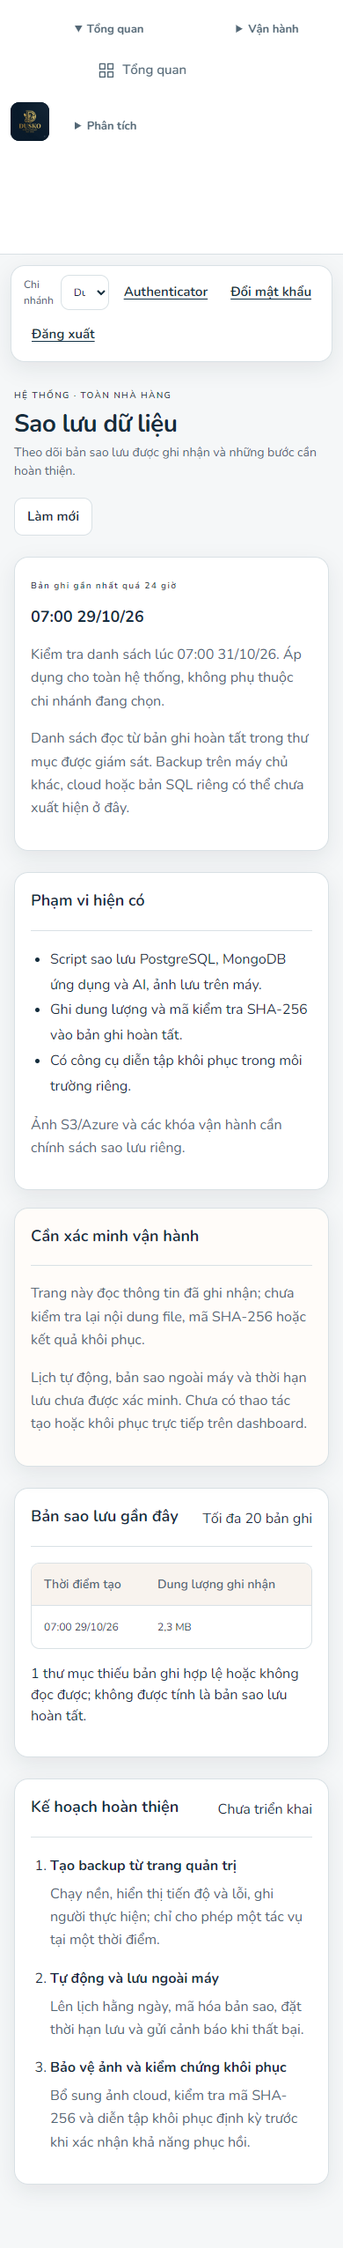
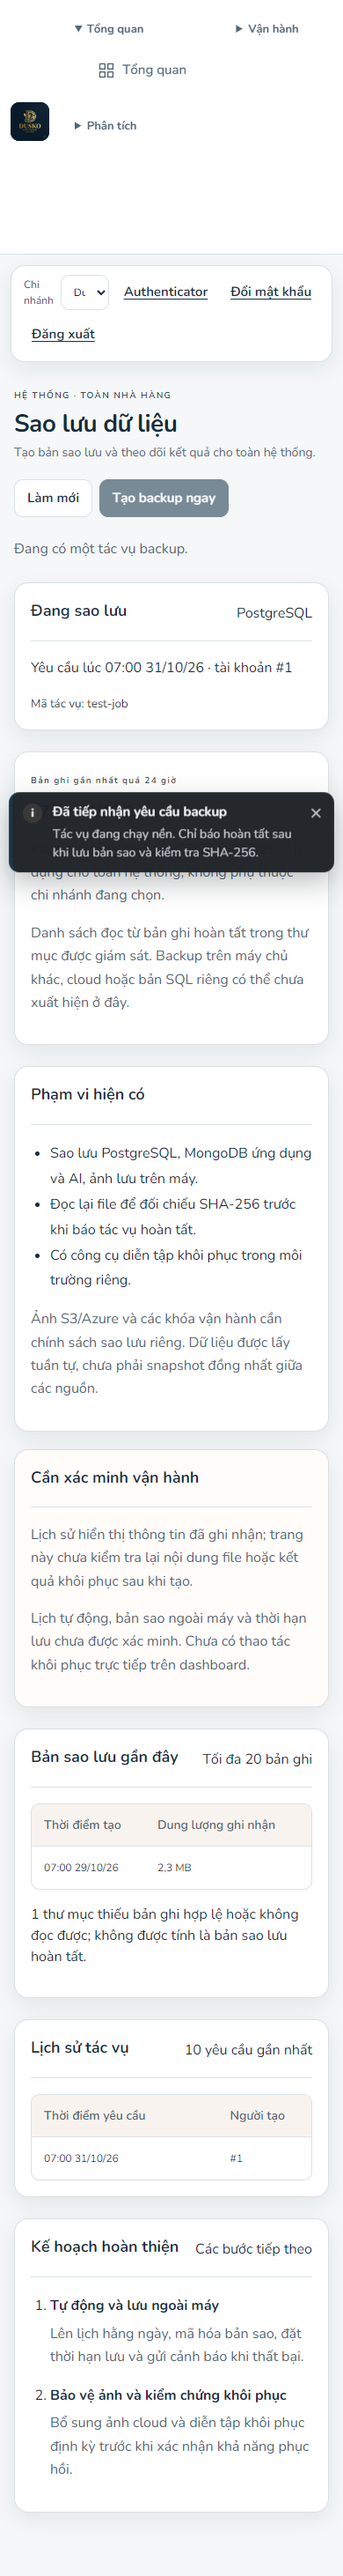
feat: create backups from admin with MFA and live job status

diff --git a/src/backup-status.js b/src/backup-status.js
@@ -1,13 +1,19 @@
 import { escapeHtml as e, dateTime } from './api.js';
 
 const size = bytes => `${new Intl.NumberFormat('vi-VN', { maximumFractionDigits: 1 }).format(bytes / 1024 / 1024)} MB`;
+const states = { QUEUED:'Đang chuẩn bị', RUNNING:'Đang sao lưu', COMPLETED:'Đã tạo backup', FAILED:'Thất bại', INTERRUPTED:'Bị gián đoạn' };
+const phases = { PREPARING:'Chuẩn bị', POSTGRES:'PostgreSQL', MONGO_APP:'MongoDB ứng dụng', MONGO_AI:'MongoDB AI', UPLOADS:'Ảnh local', CHECKSUMS:'Kiểm tra SHA-256', COMPLETED:'Hoàn tất' };
 export function backupStatusHtml(data) {
   const backups = data.backups || [], latest = backups[0];
   const stale = latest && Date.parse(data.checkedAt) - Date.parse(latest.createdAt) > 24 * 3600_000;
   const status = data.availability === 'UNAVAILABLE' ? 'Không đọc được danh sách' : data.availability === 'NOT_FOUND' ? 'Chưa kết nối thư mục sao lưu' : !latest ? 'Chưa ghi nhận bản sao lưu' : stale ? 'Bản ghi gần nhất quá 24 giờ' : 'Đã ghi nhận bản sao lưu';
-  return `<div class="page-head"><div><span class="eyebrow">HỆ THỐNG · TOÀN NHÀ HÀNG</span><h1>Sao lưu dữ liệu</h1><p>Theo dõi bản sao lưu được ghi nhận và những bước cần hoàn thiện.</p></div><div class="head-tools"><button class="btn secondary" data-action="reload">Làm mới</button></div></div>
+  const job = data.activeJob || data.jobs?.[0];
+  const jobHtml = job ? `<section class="panel backup-job" aria-live="polite"><div class="panel-head"><h2>${e(states[job.state] || 'Chưa xác định')}</h2><span>${e(phases[job.phase] || 'Chuẩn bị')}</span></div><p>Yêu cầu lúc ${e(dateTime(job.requestedAt))} · tài khoản #${e(job.requestedBy)}</p>${job.message ? `<p>${e(job.message)}</p>` : ''}${job.stalled ? '<p role="alert">Tác vụ mất tín hiệu. Cần vận hành kiểm tra trước khi tạo bản mới.</p>' : ''}<small>Mã tác vụ: ${e(job.id)}</small></section>` : '';
+  return `<div class="page-head"><div><span class="eyebrow">HỆ THỐNG · TOÀN NHÀ HÀNG</span><h1>Sao lưu dữ liệu</h1><p>Tạo bản sao lưu và theo dõi kết quả cho toàn hệ thống.</p></div><div class="head-tools"><button class="btn secondary" data-backup="refresh">Làm mới</button><button class="btn primary" data-backup="create" ${data.capability?.canCreate ? '' : 'disabled'}>Tạo backup ngay</button></div></div>
+  <p class="backup-capability" role="status">${e(data.capability?.canCreate ? 'Sẵn sàng tạo backup. Cần mã Authenticator mới để xác nhận.' : data.capability?.reason || 'Chức năng tạo backup chưa được bật trên máy chủ.')}</p>${jobHtml}
   <div class="backup-summary panel"><span class="eyebrow">${e(status)}</span><h2>${latest ? e(dateTime(latest.createdAt)) : 'Cần kiểm tra cấu hình sao lưu'}</h2><p>Kiểm tra danh sách lúc ${e(dateTime(data.checkedAt))}. Áp dụng cho toàn hệ thống, không phụ thuộc chi nhánh đang chọn.</p><p>Danh sách đọc từ bản ghi hoàn tất trong thư mục được giám sát. Backup trên máy chủ khác, cloud hoặc bản SQL riêng có thể chưa xuất hiện ở đây.</p></div>
-  <div class="two-col backup-details"><section class="panel"><div class="panel-head"><h2>Phạm vi hiện có</h2></div><ul><li>Script sao lưu PostgreSQL, MongoDB ứng dụng và AI, ảnh lưu trên máy.</li><li>Ghi dung lượng và mã kiểm tra SHA-256 vào bản ghi hoàn tất.</li><li>Có công cụ diễn tập khôi phục trong môi trường riêng.</li></ul><p>Ảnh S3/Azure và các khóa vận hành cần chính sách sao lưu riêng.</p></section><section class="panel"><div class="panel-head"><h2>Cần xác minh vận hành</h2></div><p>Trang này đọc thông tin đã ghi nhận; chưa kiểm tra lại nội dung file, mã SHA-256 hoặc kết quả khôi phục.</p><p>Lịch tự động, bản sao ngoài máy và thời hạn lưu chưa được xác minh. Chưa có thao tác tạo hoặc khôi phục trực tiếp trên dashboard.</p></section></div>
+  <div class="two-col backup-details"><section class="panel"><div class="panel-head"><h2>Phạm vi hiện có</h2></div><ul><li>Sao lưu PostgreSQL, MongoDB ứng dụng và AI, ảnh lưu trên máy.</li><li>Đọc lại file để đối chiếu SHA-256 trước khi báo tác vụ hoàn tất.</li><li>Có công cụ diễn tập khôi phục trong môi trường riêng.</li></ul><p>Ảnh S3/Azure và các khóa vận hành cần chính sách sao lưu riêng. Dữ liệu được lấy tuần tự, chưa phải snapshot đồng nhất giữa các nguồn.</p></section><section class="panel"><div class="panel-head"><h2>Cần xác minh vận hành</h2></div><p>Lịch sử hiển thị thông tin đã ghi nhận; trang này chưa kiểm tra lại nội dung file hoặc kết quả khôi phục sau khi tạo.</p><p>Lịch tự động, bản sao ngoài máy và thời hạn lưu chưa được xác minh. Chưa có thao tác khôi phục trực tiếp trên dashboard.</p></section></div>
   <section class="panel backup-history"><div class="panel-head"><h2>Bản sao lưu gần đây</h2><span>Tối đa 20 bản ghi</span></div>${backups.length ? `<div class="table-scroll"><table><thead><tr><th>Thời điểm tạo</th><th>Dung lượng ghi nhận</th><th>Số tệp</th><th>Ảnh nguồn</th><th>Khôi phục</th></tr></thead><tbody>${backups.map(item => `<tr><td>${e(dateTime(item.createdAt))}</td><td>${e(size(item.bytes))}</td><td>${e(item.artifactCount)}</td><td>${e(({ local:'Trên máy', s3:'S3 · chưa sao lưu ảnh', azure:'Azure · chưa sao lưu ảnh' })[item.imageProvider] || 'Chưa xác định')}</td><td>Chưa xác minh trên dashboard</td></tr>`).join('')}</tbody></table></div>` : '<p class="muted">Chưa có bản ghi để hiển thị tại nơi đang giám sát. Điều này chưa kết luận hệ thống không có backup.</p>'}${data.invalidCount ? `<p role="status">${e(data.invalidCount)} thư mục thiếu bản ghi hợp lệ hoặc không đọc được; không được tính là bản sao lưu hoàn tất.</p>` : ''}${data.truncated ? '<p>Danh sách đã được giới hạn. Cần kiểm tra kho sao lưu đầy đủ tại hệ thống vận hành.</p>' : ''}</section>
-  <section class="panel backup-plan"><div class="panel-head"><h2>Kế hoạch hoàn thiện</h2><span>Chưa triển khai</span></div><ol><li><strong>Tạo backup từ trang quản trị</strong><p>Chạy nền, hiển thị tiến độ và lỗi, ghi người thực hiện; chỉ cho phép một tác vụ tại một thời điểm.</p></li><li><strong>Tự động và lưu ngoài máy</strong><p>Lên lịch hằng ngày, mã hóa bản sao, đặt thời hạn lưu và gửi cảnh báo khi thất bại.</p></li><li><strong>Bảo vệ ảnh và kiểm chứng khôi phục</strong><p>Bổ sung ảnh cloud, kiểm tra mã SHA-256 và diễn tập khôi phục định kỳ trước khi xác nhận khả năng phục hồi.</p></li></ol></section>`;
+  <section class="panel backup-history"><div class="panel-head"><h2>Lịch sử tác vụ</h2><span>10 yêu cầu gần nhất</span></div>${data.jobs?.length ? `<div class="table-scroll"><table><thead><tr><th>Thời điểm yêu cầu</th><th>Người tạo</th><th>Trạng thái</th><th>Công đoạn</th><th>Kết quả</th></tr></thead><tbody>${data.jobs.map(item => `<tr><td>${e(dateTime(item.requestedAt))}</td><td>#${e(item.requestedBy)}</td><td>${e(states[item.state] || item.state)}</td><td>${e(phases[item.phase] || item.phase)}</td><td>${e(item.message || 'Đang xử lý')}</td></tr>`).join('')}</tbody></table></div>` : '<p class="muted">Chưa có yêu cầu tạo backup từ dashboard.</p>'}</section>
+  <section class="panel backup-plan"><div class="panel-head"><h2>Kế hoạch hoàn thiện</h2><span>Các bước tiếp theo</span></div><ol><li><strong>Tự động và lưu ngoài máy</strong><p>Lên lịch hằng ngày, mã hóa bản sao, đặt thời hạn lưu và gửi cảnh báo khi thất bại.</p></li><li><strong>Bảo vệ ảnh và kiểm chứng khôi phục</strong><p>Bổ sung ảnh cloud và diễn tập khôi phục định kỳ trước khi xác nhận khả năng phục hồi.</p></li></ol></section>`;
 }

diff --git a/src/backup-admin.js b/src/backup-admin.js
@@ -1,0 +1,71 @@
+import { backupStatusHtml } from './backup-status.js';
+import { sharedToast } from './toast.js';
+
+export function mountBackupAdmin({ root, request, canCreate = true, pollMs = 4000, onAuthError = () => {} }) {
+  let disposed = false, timer, loading = false, creating = false, dialog, refreshSeq = 0, failed = false;
+  const toast = sharedToast();
+  const schedule = () => { clearTimeout(timer); if (!disposed) timer = setTimeout(() => refresh().catch(() => {}), pollMs); };
+  async function refresh() {
+    if (disposed || loading || creating || dialog?.open) { schedule(); return; }
+    const seq = ++refreshSeq; loading = true;
+    try {
+      const data = await request('/api/admin/backups', { cache: 'no-store' });
+      if (disposed || seq !== refreshSeq) return;
+      failed = false;
+      if (!canCreate) data.capability = { ...data.capability, canCreate: false, reason: 'Cần đăng nhập bằng tài khoản ADMIN có Authenticator để tạo backup.' };
+      // Keep focused controls focused after a background refresh.
+      const focused = root.contains(document.activeElement) ? document.activeElement?.dataset?.backup : null;
+      const scrolls = [...root.querySelectorAll('.table-scroll')].map(table => table.scrollLeft);
+      root.innerHTML = backupStatusHtml(data);
+      root.querySelectorAll('.table-scroll').forEach((table, index) => { table.scrollLeft = scrolls[index] || 0; });
+      if (focused) root.querySelector(`[data-backup="${focused}"]`)?.focus({ preventScroll: true });
+    } catch (error) {
+      if (!disposed) {
+        if ([401,403].includes(error.status)) { onAuthError(); return; }
+        if (!root.querySelector('.backup-summary')) root.innerHTML = '<div class="error-panel" role="alert">Không tải được trạng thái backup. <button class="btn secondary" data-backup="refresh">Thử lại</button></div>';
+        const create = root.querySelector('[data-backup=create]'); if (create) create.disabled = true;
+        const notice = root.querySelector('.backup-capability'); if (notice) notice.textContent = 'Mất kết nối cập nhật trạng thái. Cần làm mới thành công trước khi tạo backup.';
+        if (!failed) toast.error('Chưa cập nhật được trạng thái backup', error.message);
+        failed = true;
+      }
+    } finally { loading = false; schedule(); }
+  }
+  function openCreate() {
+    if (disposed || creating || dialog?.open || root.querySelector('[data-backup="create"]')?.disabled) return;
+    clearTimeout(timer);
+    dialog = document.createElement('dialog'); dialog.className = 'app-confirm backup-confirm';
+    dialog.setAttribute('aria-labelledby', 'backup-confirm-title');
+    dialog.innerHTML = '<form class="app-confirm__body"><h2 id="backup-confirm-title">Tạo bản sao lưu?</h2><p>Sao lưu PostgreSQL, MongoDB ứng dụng/AI và ảnh local vào kho riêng của máy chủ. Ảnh S3/Azure chưa được sao lưu. Dữ liệu giữa các nguồn được lấy tuần tự; thao tác này không khôi phục hoặc thay đổi dữ liệu đang bán hàng.</p><label class="field"><span>Mã Authenticator mới</span><input name="code" inputmode="numeric" autocomplete="one-time-code" pattern="[0-9]{6}" maxlength="6" required placeholder="6 chữ số"></label><p class="form-help">Nếu vừa dùng mã này để đăng nhập, chờ mã mới rồi xác nhận.</p><p class="backup-create-error" role="alert" hidden></p><div class="app-confirm__actions"><button class="app-confirm__button" type="button" data-cancel>Hủy</button><button class="app-confirm__button app-confirm__button--primary" type="submit">Xác nhận tạo backup</button></div></form>';
+    const form = dialog.querySelector('form'), submit = form.querySelector('[type=submit]'), input = form.elements.code, errorBox = form.querySelector('.backup-create-error');
+    const cancel = () => { if (!creating) dialog.close(); };
+    dialog.querySelector('[data-cancel]').onclick = cancel;
+    dialog.addEventListener('cancel', event => { if (creating) event.preventDefault(); });
+    dialog.addEventListener('click', event => { if (event.target === dialog) cancel(); });
+    const currentDialog = dialog;
+    dialog.addEventListener('close', () => { currentDialog.remove(); if (dialog === currentDialog) dialog = null; if (!disposed) root.querySelector('[data-backup=create]')?.focus(); schedule(); }, { once: true });
+    form.onsubmit = async event => {
+      event.preventDefault(); if (creating || !form.reportValidity()) return;
+      creating = true; submit.disabled = true; input.disabled = true; submit.textContent = 'Đang gửi…'; errorBox.hidden = true;
+      try {
+        await request('/api/admin/backups', { method: 'POST', body: { code: input.value.trim() } });
+        if (disposed) return;
+        input.value = ''; creating = false; dialog.close();
+        toast.info('Đã tiếp nhận yêu cầu backup', 'Tác vụ đang chạy nền. Chỉ báo hoàn tất sau khi lưu bản sao và kiểm tra SHA-256.');
+        await refresh();
+      } catch (error) {
+        if (disposed) return;
+        errorBox.textContent = error.message; errorBox.hidden = false; input.value = '';
+        if (error.status === 409) toast.info('Đã có tác vụ backup', 'Đóng hộp thoại và làm mới để theo dõi.');
+      } finally { creating = false; if (dialog) { submit.disabled = false; input.disabled = false; submit.textContent = 'Xác nhận tạo backup'; input.focus(); } }
+    };
+    document.body.append(dialog); dialog.showModal(); input.focus();
+  }
+  const click = event => {
+    const action = event.target.closest('[data-backup]')?.dataset.backup;
+    if (action === 'refresh') void refresh();
+    if (action === 'create') openCreate();
+  };
+  root.addEventListener('click', click);
+  const ready = refresh();
+  return { ready, destroy() { disposed = true; refreshSeq++; clearTimeout(timer); root.removeEventListener('click', click); if (dialog) { dialog.close(); dialog.remove(); dialog = null; } } };
+}

diff --git a/src/main.js b/src/main.js
@@ -14,7 +14,7 @@ import './accounts.css';
 import { mountComboApproval } from './combo-approval.js';
 import { createCustomerAdmin } from './customer-admin.js';
 import { canAccessManagement as canAccessManagementFn } from './management-access.js';
-import { backupStatusHtml } from './backup-status.js';
+import { mountBackupAdmin } from './backup-admin.js';
 import './backup-status.css';
 import { watchChanges } from './live-updates.js';
 import { sharedToast } from './toast.js';
@@ -208,7 +208,7 @@ async function loadPage() {
     if(requestedPage==='kitchen') { const batches=await api(`/api/kds/batches?branchId=${requestedBranch}`); if(!stillCurrent())return; state.data.batches=batches; kitchen(); }
 
     if(requestedPage==='forecast') { const products=await api('/api/catalog/products'); if(!stillCurrent())return; state.data.forecastProducts=products; state.data.forecast=undefined; state.forecastResultDate=null; state.aiAnalysis={}; forecast(); }
-    if(requestedPage==='backups') { const data=await api('/api/admin/backups',{cache:'no-store'}); if(!stillCurrent())return; render(backupStatusHtml(data)); }
+    if(requestedPage==='backups') { serviceWorkspace=mountBackupAdmin({root:document.querySelector('#page'),request:api,canCreate:state.user.role==='ADMIN',onAuthError:signOut}); await serviceWorkspace.ready; }
     if(requestedPage==='users'){render('<div id=accounts-root></div>');await mountAccounts(document.querySelector('#accounts-root'),api,state.branches,{userId:state.user.id,signedOut:()=>{signOut();toast('Tài khoản đã thay đổi. Vui lòng đăng nhập lại.');}});}
     if(['customers','tiers','promotions'].includes(requestedPage)){const adminPages=createCustomerAdmin({api:async (p,o)=>api(p,o),branchId:requestedBranch,e,title,table,row,btn,empty,access,formModal,confirmDialog: (await import('./confirm-dialog.js')).confirmDialog,toast,reload:loadPage});render(await adminPages[requestedPage]());}
     if(requestedPage==='combos'){render('<div id="combo-approval"></div>');await mountComboApproval(document.querySelector('#combo-approval'),api,requestedBranch);}

diff --git a/tests/backup-status.test.js b/tests/backup-status.test.js
@@ -6,9 +6,19 @@ test('missing and unavailable inventory never claims no backups exist or restore
   for (const availability of ['NOT_FOUND', 'UNAVAILABLE', 'AVAILABLE']) {
     const html = backupStatusHtml({ availability, checkedAt: '2026-10-31T00:00:00Z', backups: [] });
     assert.match(html, /chưa kết luận hệ thống không có backup/);
-    assert.match(html, /Chưa có thao tác tạo hoặc khôi phục trực tiếp/);
+    assert.match(html, /Chưa có thao tác khôi phục trực tiếp/);
+    assert.match(html, /data-backup="create" disabled/);
     assert.doesNotMatch(html, /Đã kiểm chứng khôi phục/);
   }
+});
+
+test('ready state enables creation and running/failed jobs do not claim restore success', () => {
+  const base = { availability:'AVAILABLE', checkedAt:'2026-10-31T00:00:00Z', backups:[], capability:{canCreate:true} };
+  assert.doesNotMatch(backupStatusHtml(base), /data-backup="create" disabled/);
+  const html = backupStatusHtml({...base, capability:{canCreate:false,reason:'Đang sao lưu'}, activeJob:{id:'job-1',state:'RUNNING',phase:'POSTGRES',requestedAt:base.checkedAt,requestedBy:1},
+    jobs:[{id:'old',state:'FAILED',phase:'MONGO_APP',requestedAt:base.checkedAt,requestedBy:2,message:'<private>'}]});
+  assert.match(html,/Đang sao lưu/); assert.match(html,/Thất bại/); assert.match(html,/&lt;private&gt;/);
+  assert.doesNotMatch(html, /Đã kiểm chứng khôi phục/);
 });
 
 test('old backups are flagged, untrusted labels escaped, cloud coverage and limits visible', () => {

diff --git a/src/backup-status.css b/src/backup-status.css
@@ -1,2 +1,3 @@
 .backup-summary,.backup-history,.backup-plan{margin-bottom:24px;padding:24px}.backup-summary h2{margin:12px 0}.backup-summary p,.backup-details p,.backup-plan p{color:var(--muted,#536775);line-height:1.65}.backup-details{margin:24px 0}.backup-details>.panel{padding:24px}.backup-details ul,.backup-plan ol{padding-left:22px;line-height:1.8}.backup-plan li+li{margin-top:16px}.backup-plan p{margin:4px 0}.backup-history .panel-head{gap:12px;flex-wrap:wrap}.backup-history td{white-space:normal;min-width:120px}@media(max-width:700px){.backup-summary,.backup-history,.backup-plan,.backup-details>.panel{padding:16px}.backup-details{grid-template-columns:1fr}}
 .backup-history table{min-width:760px}
+.backup-job{padding:24px;margin-bottom:24px}.backup-capability{line-height:1.6;margin:0 0 24px;color:var(--muted)}.backup-job small{overflow-wrap:anywhere}.backup-confirm{max-width:540px;width:calc(100% - 32px)}.backup-confirm p{line-height:1.6}.backup-confirm input{font-size:20px;letter-spacing:.2em}.backup-create-error{color:var(--danger,#b42318)}

diff --git a/docs/BACKUP_ADMIN.md b/docs/BACKUP_ADMIN.md
@@ -1,9 +1,13 @@
-# Dashboard sao lưu dữ liệu
+# Dashboard backup ADMIN
 
-Ngày 31/10/2026: ADMIN mở **Hệ thống → Sao lưu dữ liệu**, nút trên Tổng quan hoặc `?page=backups`. MANAGER không có quyền mục này. Trang đọc `GET /api/admin/backups` của BE; backend cần cập nhật cùng phiên bản hỗ trợ endpoint, bootstrap và workspace `backups`.
+ADMIN mở Hệ thống → Sao lưu dữ liệu, nút trên Tổng quan hoặc ?page=backups. MANAGER không có quyền. Deploy BE/FE cùng phiên bản.
 
-Hiển thị tối đa 20 bản ghi manifest, thời điểm/dung lượng/số tệp, nguồn ảnh, nhắc bản ghi quá 24 giờ, trường hợp chưa kết nối thư mục/lỗi đọc/rỗng/bản ghi lỗi. Dữ liệu là metadata, chưa kiểm checksum hoặc xác minh restore. Bản SQL EC2 riêng và backup ngoài thư mục giám sát chưa được liệt kê. Không có nút tạo/khôi phục giả lập.
+GET /api/admin/backups trả inventory, capability, activeJob và 10 job gần nhất. Tạo backup ngay mở hộp thoại phạm vi + mã Authenticator mới, POST /api/admin/backups với {code}. Backend yêu cầu primary ADMIN và one-use TOTP. Thiếu tools/config/storage hoặc có job/khóa thì nút bị khóa kèm lý do.
 
-Kế hoạch chi tiết và cấu hình `BACKUP_ROOT`: repo BE, `docs/BACKUP_ADMIN_PLAN.md`. Các bước tiếp theo: worker nền và tạo backup ADMIN; lịch tự động/mã hóa/offsite/retention; ảnh cloud và diễn tập khôi phục. Production phải mount kho backup read-only cho BE trước khi inventory đọc được dữ liệu máy chủ.
+HTTP 202 là tiếp nhận. Poll mỗi 4 giây, hiển thị công đoạn/thành công/lỗi/gián đoạn; hủy khi rời trang. Lỗi MFA cho sửa mã/thử lại. Không báo hoàn tất trước khi dump + SHA-256 hoàn thành. Giữ vị trí cuộn bảng và focus sau poll.
 
-Kiểm tra: BE build và 81 test; FE ba app build và 100 test. Browser với API giả lập kiểm tra ADMIN deep link/navigation, làm mới, bản ghi quá hạn, ảnh S3 chưa được sao lưu, thư mục chưa cấu hình và kích thước 1440/390px. Ảnh `docs/ui/backup-admin-*.png` dùng dữ liệu giả lập, không phải bằng chứng backup production.
+Chưa backup ảnh cloud/secrets, chưa có snapshot chung SQL/Mongo/ảnh. Inventory không hash lại file khi đọc. Hoàn tất chưa chứng minh restore. Chưa có restore production, lịch tự động, offsite hoặc retention.
+
+Bật production theo repo BE docs/BACKUP_ADMIN_RUNBOOK.md: BACKUP_ENABLED=true, image mới có tools và volume private. Mặc định chưa bật tạo mới. Chưa chạy backup production thật trong lượt này.
+
+Kiểm tra: BE 89 unit test và build; FE 101 test và build management. Browser fixture kiểm MFA sai/thử lại, tiếp nhận so với hoàn tất, chặn tạo trùng, polling, cleanup khi rời trang, inventory rỗng/cloud/quá hạn, 1440px/390px. Ảnh docs/ui/backup-admin-*.png là fixture, không phải bằng chứng backup production.
